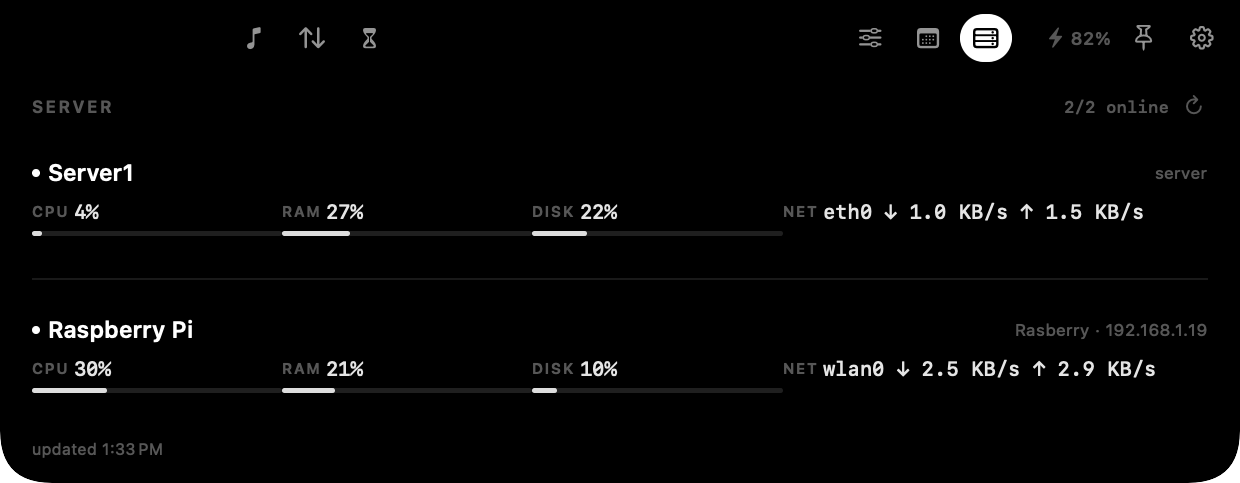
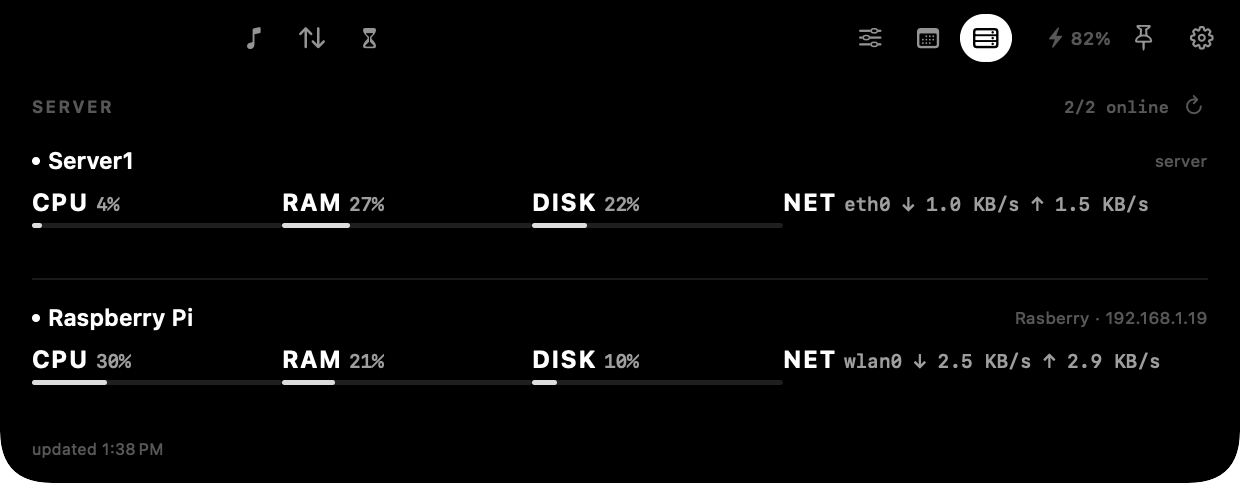
lost_Island 0.7.6: larger CPU/RAM/DISK/NET labels above the values

Changed region(s): [[0.0, 0.6211, 0.9806, 0.8385], [0.0, 0.3106, 0.95, 0.4969], [0.9194, 0.3106, 0.9806, 0.3727]]

diff --git a/Sources/Island/Panes/ServerPane.swift b/Sources/Island/Panes/ServerPane.swift
@@ -118,7 +118,7 @@ struct ServerPane: View {
                 }
             }
         }
-        .frame(height: 22)
+        .frame(height: 34)
     }
 
     private func metricItems(
@@ -142,14 +142,14 @@ struct ServerPane: View {
 
     private func metric(_ label: String, _ value: String, fraction: CGFloat?) -> some View {
         VStack(alignment: .leading, spacing: 3) {
-            HStack(spacing: 2) {
+            HStack(alignment: .firstTextBaseline, spacing: 3) {
                 Text(label)
-                    .font(.system(size: 7.5, weight: .semibold))
-                    .tracking(0.7)
-                    .foregroundStyle(Theme.tertiary)
+                    .font(.system(size: 12, weight: .bold))
+                    .tracking(0.8)
+                    .foregroundStyle(Theme.text)
                 Text(value)
-                    .font(.system(size: 10, weight: .medium, design: .monospaced))
-                    .foregroundStyle(Theme.text.opacity(0.9))
+                    .font(.system(size: 9.5, weight: .medium, design: .monospaced))
+                    .foregroundStyle(Theme.text.opacity(0.62))
                     .lineLimit(1)
                     .minimumScaleFactor(0.8)
             }

diff --git a/Sources/Settings/SettingsView.swift b/Sources/Settings/SettingsView.swift
@@ -297,7 +297,7 @@ struct SettingsView: View {
     }
 
     private var version: String {
-        let short = Bundle.main.object(forInfoDictionaryKey: "CFBundleShortVersionString") as? String ?? "0.7.5"
+        let short = Bundle.main.object(forInfoDictionaryKey: "CFBundleShortVersionString") as? String ?? "0.7.6"
         return "v\(short)"
     }
 

diff --git a/docs/SESSION.md b/docs/SESSION.md
@@ -283,3 +283,15 @@ on both axes when metrics are added or removed.
   is the percentage); NET renders an empty 2.5 pt spacer so label baselines and
   row heights line up across all columns.
 - Version 0.7.5.
+
+## Phase 10 — larger metric labels (7 Nov 2026)
+
+Request: the CPU/RAM/DISK/NET words were too small; make them bigger than the
+number so they read clearly.
+
+- `ServerPane.metric` label is now 12 pt bold (was 7.5 pt semibold) in full
+  white with 0.8 tracking; the value is 9.5 pt monospaced at 62% opacity, so the
+  label is the dominant element.
+- The label/value baseline aligns via `HStack(alignment: .firstTextBaseline)`;
+  the metric row grew from 22 pt to 34 pt to fit the taller text plus the bar.
+- Version 0.7.6.
